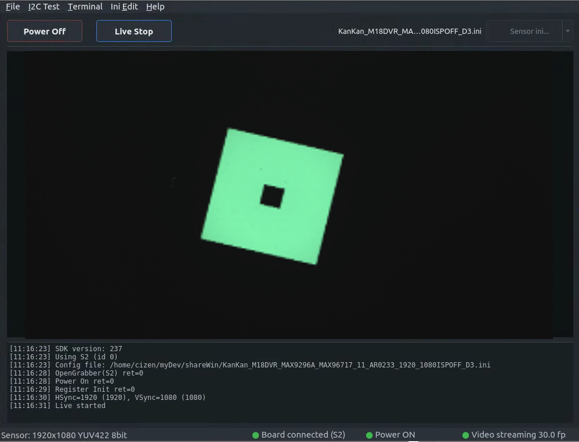
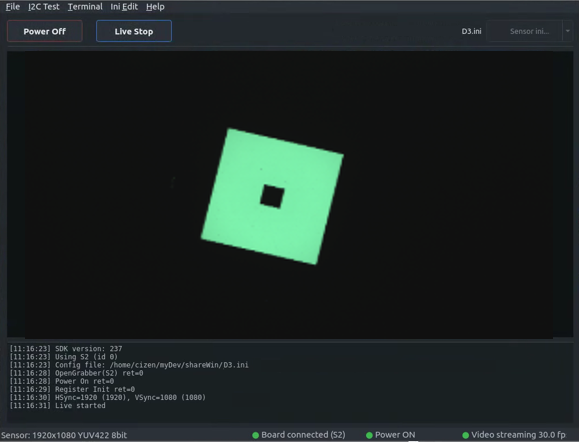
Developer 섹션 아래에 Linux & ROS2 페이지 추가

Changed region(s): [[0.3731, 0.7941, 0.8394, 0.8529], [0.5907, 0.0588, 0.8083, 0.0882]]

diff --git a/docs/Linux_ROS2.html b/docs/Linux_ROS2.html
@@ -27,7 +27,7 @@
 <p><img src="media/Ubuntu_22.04_LTS_Test_with_S2.png" alt="MIG Grabber SDK sample application on Ubuntu 22.04 LTS with the MIG-S2 board"></p>
 <pre><code>[11:16:23] SDK version: 237
 [11:16:23] Using S2 (id 0)
-[11:16:23] Config file: /home/cizen/myDev/shareWin/KanKan_M18DVR_MAX9296A_MAX96717_11_AR0233_1920_1080ISPOFF_D3.ini
+[11:16:23] Config file: /home/cizen/myDev/shareWin/D3.ini
 [11:16:28] OpenGrabber(S2) ret=0
 [11:16:28] Power On ret=0
 [11:16:29] Register Init ret=0

diff --git a/docs/Linux_ROS2.md b/docs/Linux_ROS2.md
@@ -13,7 +13,7 @@ Power on, register init, sync check, and live streaming work the same way as on 
 ```
 [11:16:23] SDK version: 237
 [11:16:23] Using S2 (id 0)
-[11:16:23] Config file: /home/cizen/myDev/shareWin/KanKan_M18DVR_MAX9296A_MAX96717_11_AR0233_1920_1080ISPOFF_D3.ini
+[11:16:23] Config file: /home/cizen/myDev/shareWin/D3.ini
 [11:16:28] OpenGrabber(S2) ret=0
 [11:16:28] Power On ret=0
 [11:16:29] Register Init ret=0
